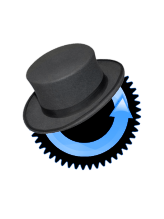
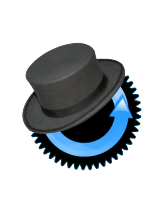
100 patched images, RGB --> BGR

diff --git a/recovery.c b/recovery.c
@@ -5,6 +5,7 @@
  * Licensed under the Apache License, Version 2.0 (the "License");
  * you may not use this file except in compliance with the License.
  * You may obtain a copy of the License at
+/*
  *
  *      http://www.apache.org/licenses/LICENSE-2.0
  *

diff --git a/minui/graphics.c b/minui/graphics.c
@@ -29,10 +29,10 @@
 
 #include <pixelflinger/pixelflinger.h>
 
-#ifndef BOARD_LDPI_RECOVERY
-	#include "font_10x18.h"
-#else
+#ifdef BOARD_LDPI_RECOVERY
 	#include "font_7x16.h"
+#else
+	#include "font_10x18.h"
 #endif
 
 #include "minui.h"
